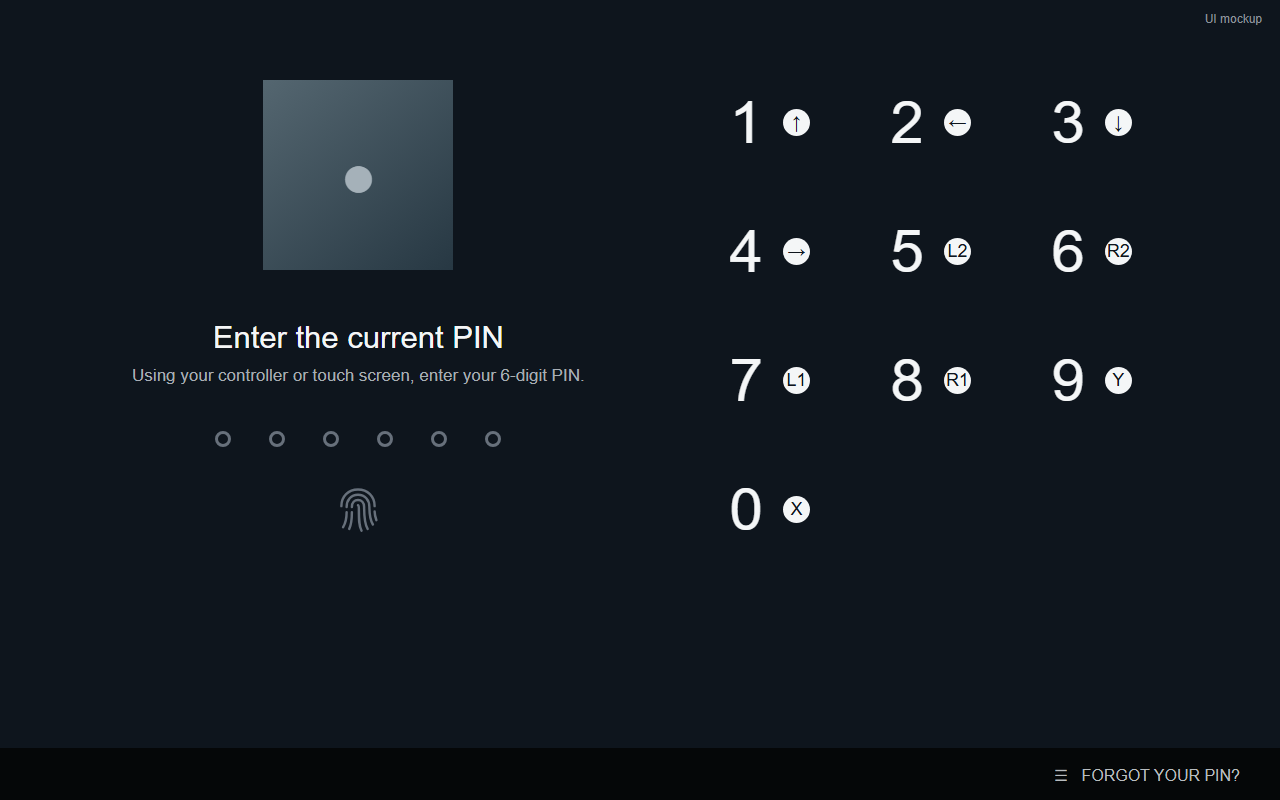
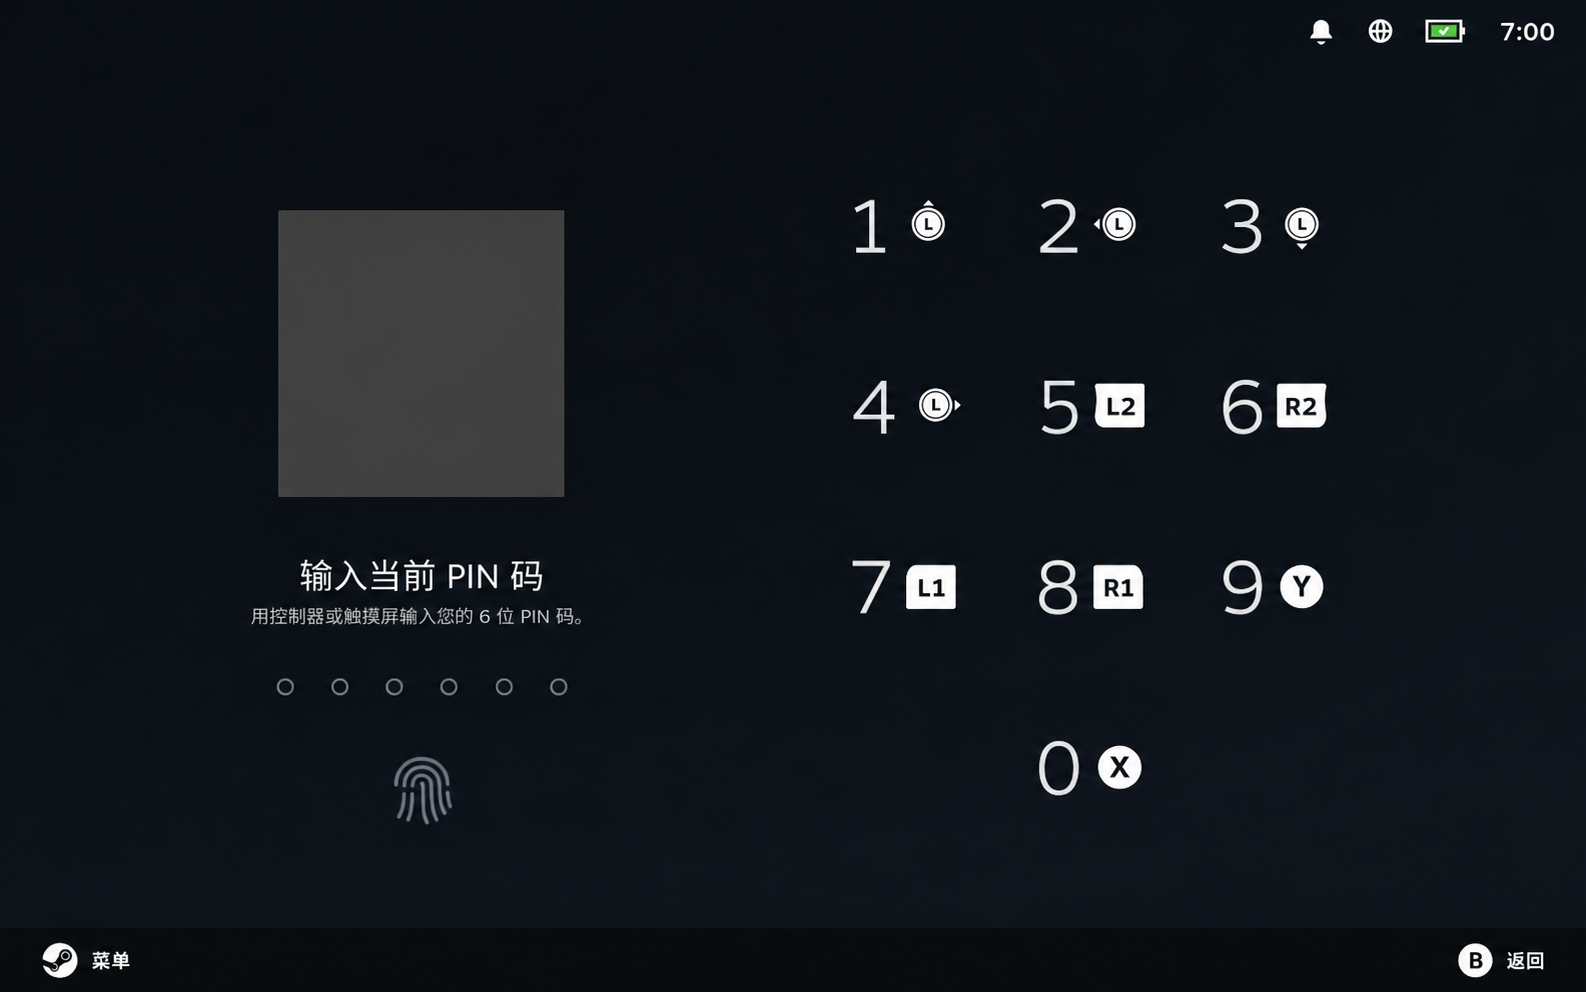
Show redacted device lock screen

diff --git a/README.md b/README.md
@@ -1,8 +1,8 @@
 # Fingerprint Unlock for SteamOS
 
-![Lock screen preview (mockup)](assets/preview.png)
+![Lock screen preview with avatar concealed](assets/preview.png)
 
-A Decky plugin for unlocking SteamOS with a fingerprint while keeping PIN unlock available. The image above is a mockup; compatibility depends on your device and fingerprint driver.
+A Decky plugin for unlocking SteamOS with a fingerprint while keeping PIN unlock available. The preview is based on an OXP3 screenshot; AI editing concealed the avatar and redrew portions of the image. Compatibility depends on your device and fingerprint driver.
 
 ## Installation
 
